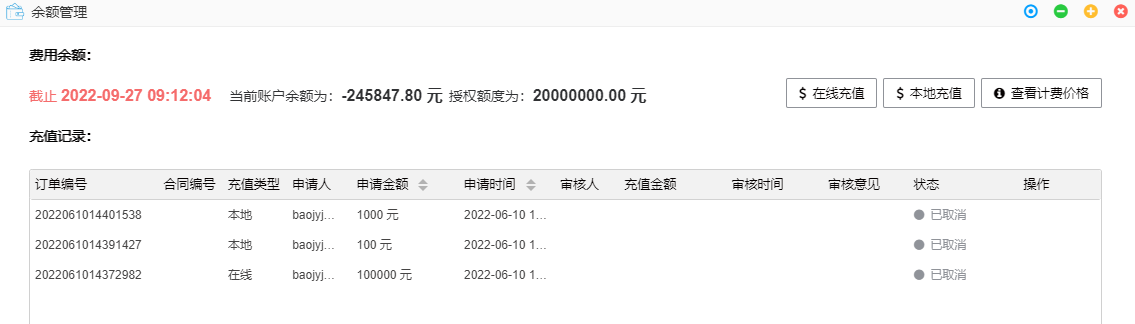
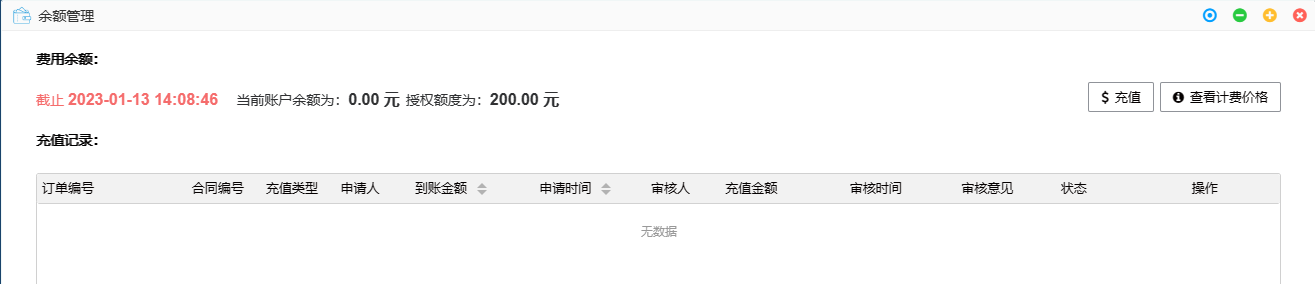
第二章增加重置密码，第四章修改余额管理

diff --git a/docs/source/personal.md b/docs/source/personal.md
@@ -49,15 +49,19 @@
 ![](figs/personal/charge.png)
 
 - **授权额度**：用户可以透支的金额。
-- **在线充值**：点击在线充值，弹出充值申请窗口，输入金额后点击确定，使用支付宝进行充值，点击去支付后跳转至支付界面，可扫码支付或登录账号支付，完成支付后实时到账。
+- **充值**：点击充值，弹出充值申请窗口。有在线充值和本地充值。
+- **在线充值**：点击在线充值，选择充值额度，可使用支付宝或微信进行充值。点击去充值后跳转至支付界面，支付宝支付可扫码支付或登录账号支付，微信支付可扫码支付，完成支付后实时到账。
 
-![](figs/personal/charge_application.png)
-
-![](figs/personal/Alipay.png)
+![](figs/personal/pay.png)
 
 - **本地充值**：点击本地充值，弹出充值申请窗口，用户输入充值金额以及合同编号，点击确认后，需管理员后台审核通过后到账。
 
 ![](figs/personal/charge_application_2.png)
+
+充值功能也可通过点击功能区的**¥**，即可进行充值
+
+![](figs/personal/pay2.png)
+
 
 - **查看计费价格**：点击查看计费价格后，弹出计费价格窗口，可查看通用队列、特殊队列、远程桌面和应用的计费价格。
 
